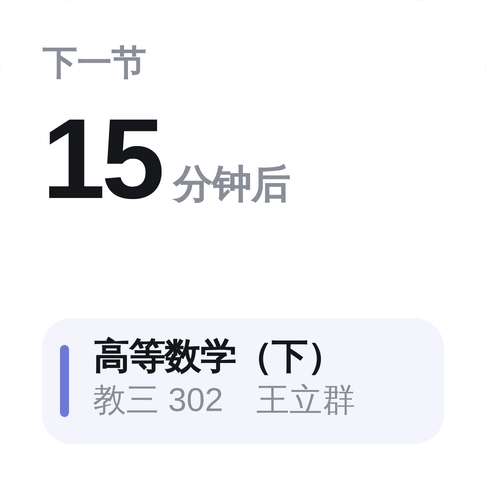
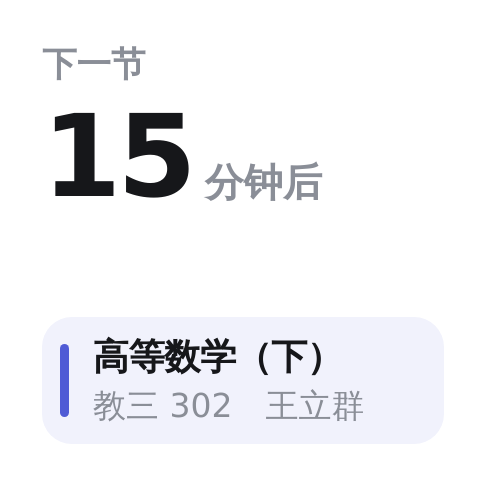
官网小组件图重出：与 1.4.40 渲染一致，深色下切换深色图

diff --git a/site/index.html b/site/index.html
@@ -431,19 +431,31 @@
 
         <div class="widget-board">
           <figure class="w w-today">
-            <img src="assets/widgets/today.png" alt="今日小组件：14 周二，高等数学 10:00 教三 302，数据结构 14:00 教一 201。" width="486" height="486" />
+            <picture>
+              <source srcset="assets/widgets-dark/today.png" media="(prefers-color-scheme: dark)" />
+              <img src="assets/widgets/today.png" alt="今日小组件：14 周二，高等数学 10:00 教三 302，数据结构 14:00 教一 201。" width="486" height="486" />
+            </picture>
             <figcaption class="hand hand-note">今日</figcaption>
           </figure>
           <figure class="w w-two">
-            <img src="assets/widgets/two_days.png" alt="两日小组件：今天和明天的课程并排。" width="1029" height="486" />
+            <picture>
+              <source srcset="assets/widgets-dark/two_days.png" media="(prefers-color-scheme: dark)" />
+              <img src="assets/widgets/two_days.png" alt="两日小组件：今天和明天的课程并排。" width="1014" height="486" />
+            </picture>
             <figcaption class="hand hand-note">两日</figcaption>
           </figure>
           <figure class="w w-next">
-            <img src="assets/widgets/next.png" alt="下一节小组件：15 分钟后，高等数学（下），教三 302，王立群。" width="486" height="486" />
+            <picture>
+              <source srcset="assets/widgets-dark/next.png" media="(prefers-color-scheme: dark)" />
+              <img src="assets/widgets/next.png" alt="下一节小组件：15 分钟后，高等数学（下），教三 302，王立群。" width="486" height="486" />
+            </picture>
             <figcaption class="hand hand-note">下一节</figcaption>
           </figure>
           <figure class="w w-week">
-            <img src="assets/widgets/week.png" alt="本周小组件：第 7 周，周一至周五的课程网格，今天高亮。" width="1029" height="678" />
+            <picture>
+              <source srcset="assets/widgets-dark/week.png" media="(prefers-color-scheme: dark)" />
+              <img src="assets/widgets/week.png" alt="本周小组件：第 7 周，周一至周五的课程网格，今天高亮。" width="1014" height="648" />
+            </picture>
             <figcaption class="hand hand-note">本周</figcaption>
           </figure>
         </div>

diff --git a/site/site.css b/site/site.css
@@ -814,6 +814,10 @@ section {
   flex-direction: column;
   align-items: center;
 }
+.w picture {
+  display: block;
+  width: 100%;
+}
 .w img {
   width: 100%;
   height: auto;
